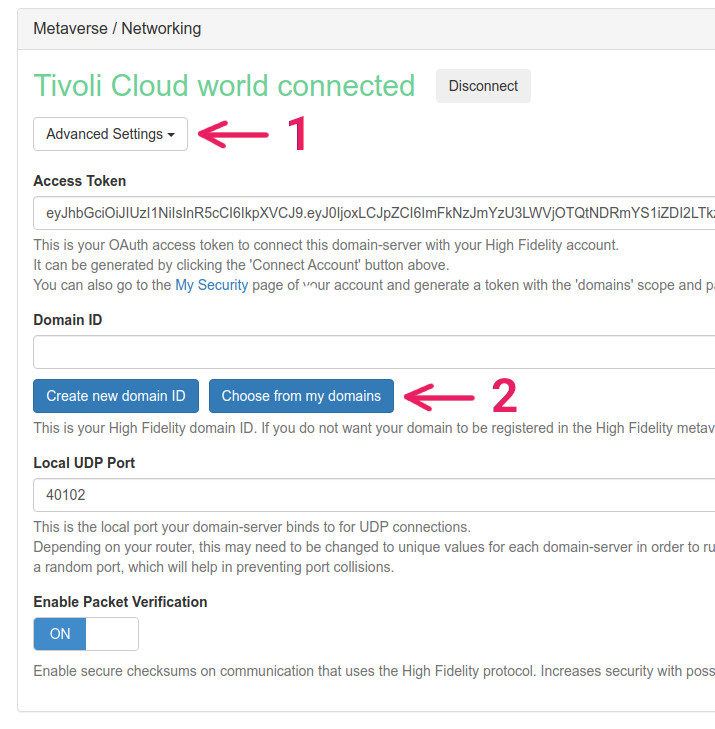
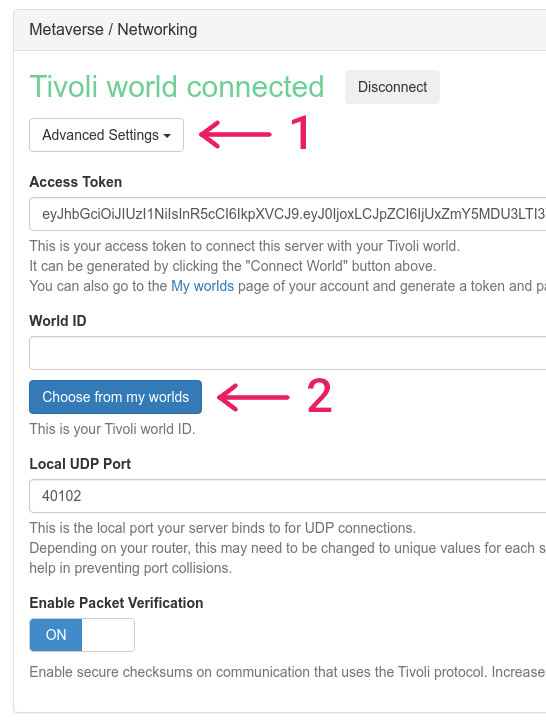
Updated host-a-world-advanced with updated instructions

diff --git a/docs/worlds/host-a-world-advanced.md b/docs/worlds/host-a-world-advanced.md
@@ -133,7 +133,7 @@ Check the servers' logs and if there are no errors, it is running!
 This part is a **little messy and that will change**. We're still in alpha and have major redesigning to do from the old server admin panel.
 
 -   Open your web browser and visit: [http://localhost:40100](http://localhost:40100)
--   **Step 1 of 3**:
+-   **Step 1 of 2**:
 
     -   Click **"Connect your Tivoli Cloud World"** and you will be redirected to your worlds.
     -   Click **"Create new world"** and fill as much as you can.
@@ -141,35 +141,29 @@ This part is a **little messy and that will change**. We're still in alpha and h
         -   This is a **secret key that binds your server to your world**. You can revoke it at any time by generating a new token.
     -   Go back to your **server web page and paste the token**. Click **"OK"**.
 
--   **Step 2 of 3**:
-
-    -   Ignore this page and click **"Next"**.
-
--   **Step 3 of 3**:
+-   **Step 2 of 2**:
 
     -   Add the **usernames of the people who you want to give full permissions** to.
-    -   Who can connect and can rez items (use create tools):
-        -   **None**: Nobody will have access.
+    -   Who can join and create:
+        -   **None**: Nobody will have access. Will make your world private.
         -   **Friends**: Your friends from the account you connected the server with.
-        -   **Users logged into High Fidelity**: Securely available to everyone.
-        -   <strike>**Everyone**</strike> Don't use this! It's broken, makes no sense and will be removed.
+        -   **Everyone logged in**: Securely available to everyone.
 
 -   **Linking the server correctly with the world**:
 
     -   You will now find yourself in the admin panel. In the **settings** page at the very top:<br />![](setup-1.jpg)
-    -   Expand **"Advanced Settings"** and click **"Choose from my domains"**. Only one world will be available.
+    -   Expand **"Advanced Settings"** and click **"Choose from my worlds"**. Only one world will be available.
     -   Click **"Save and restart"**:<br />![](setup-2.png)
     -   After the page has reloaded, you will now find:<br />![](setup-3.png)
 
     -   **Automatic Networking** must be set to either:
 
-        -   **None**: Where you specify a **static external IP address** and port. This is recommended if you have a domain that links to the machine you're working on.
-        -   **IP Only**: Where you only specify the port. This is easiest, most recommended and works as a free DNS!
-        -   <strike>**Full**</strike>: This is broken and needs fixing. This will be the recommended option when it fully works.
+        -   **Full**: Recommended! Will` automatically establish a connection using the ICE protocol.
+        -   **IP Only**: Just specify the port and it will work as a free DNS.
+        -   **None**: Where you specify a **static external IP address** and port. This is recommended if you have a web domain pointing to the machine you're working on.
+            -   **Network Address:Port** or **Network Port** must be set accordingly. The port is set to `HIFI_DOMAIN_SERVER_PORT` which is usually `40102` (+2 from the admin panel HTTP port)
 
-    -   **Network Address:Port** or **Network Port** must be set accordingly. The port is set to `HIFI_DOMAIN_SERVER_PORT` which is usually `40102` (+2 from the admin panel HTTP port)
-
-Now that those settings have been set, everything should work now!
+Now that those settings have been set, everything should work!
 
 ## 6. Installation complete!
 
